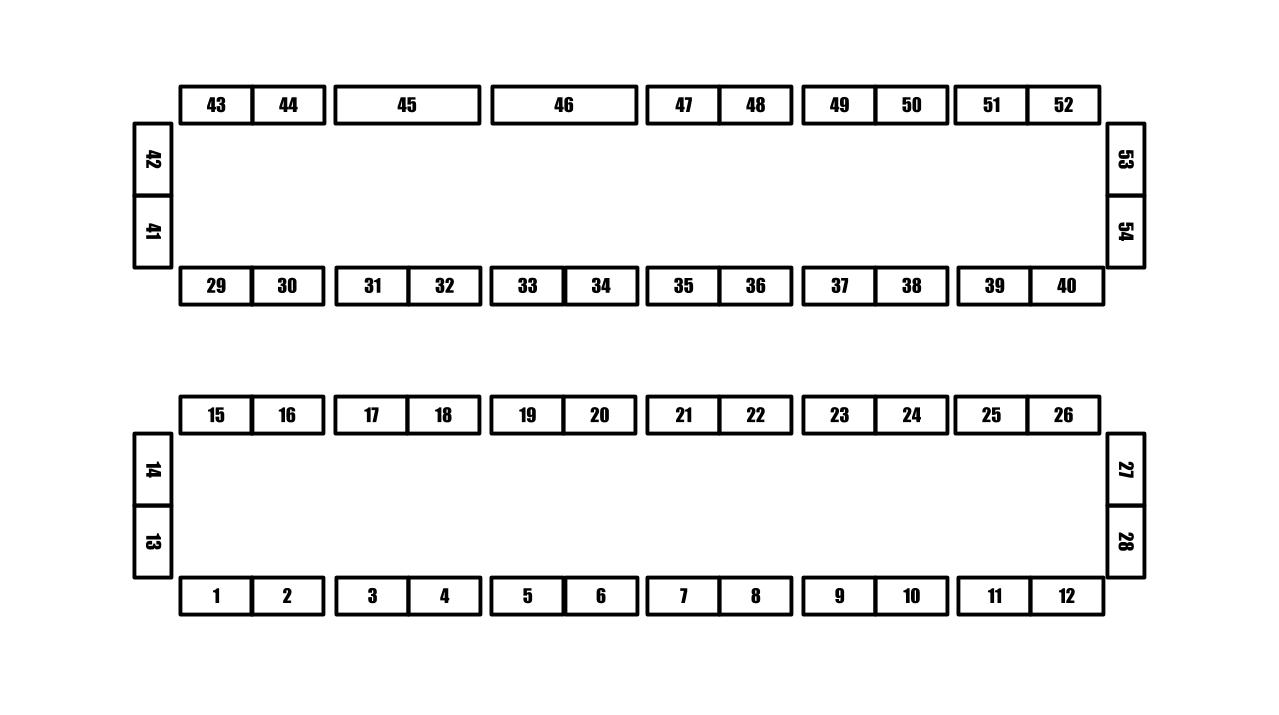
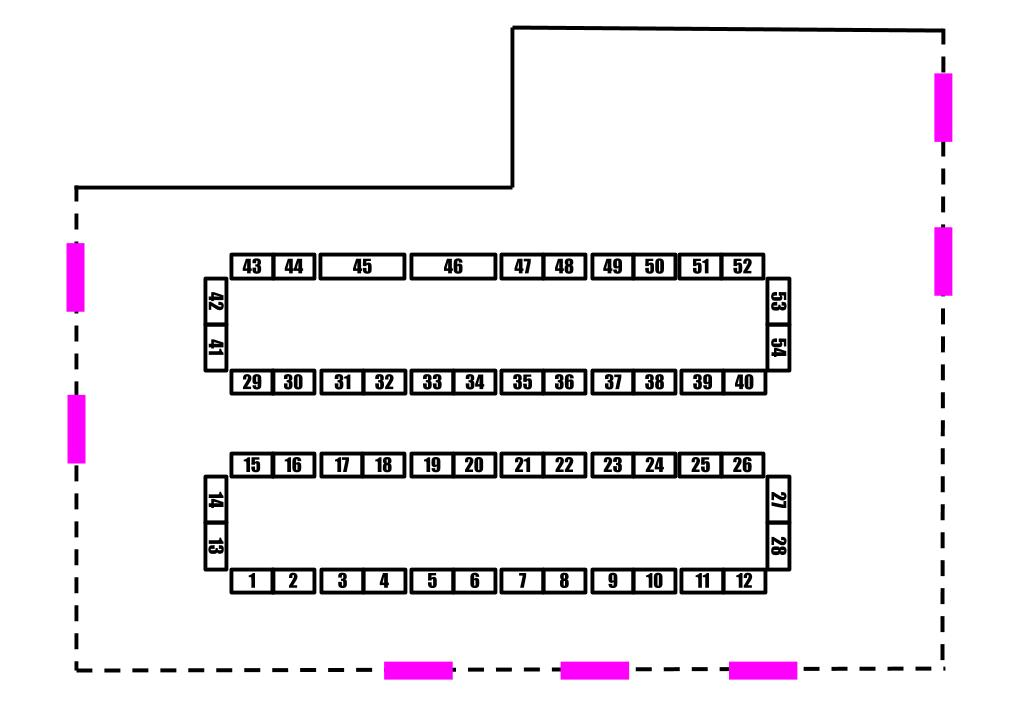
Added floor plan, updated vendor seating

Changed region(s): [[0.0608, 0.0311, 0.9431, 0.8713], [0.0608, 0.9335, 0.9127, 0.9646], [0.9127, 0.8713, 0.9431, 0.9335]]

diff --git a/index.html b/index.html
@@ -88,7 +88,7 @@
 	                <div class="col-sm-12 block-3 section-description wow fadeIn">
 	                    <h2>Registration</h2>
 	                    <div class="divider-1 wow fadeInUp"><span></span></div>
-                      <p>We are selling tickets to the event on Event Brite.  Click on the link below to purchase.</p>
+                      <p>We are selling tickets to the event on Eventbrite.  Click on the link below to purchase.</p>
 	                    <p><strong><a href="https://www.eventbrite.com/e/blythecon-los-angeles-registration-41895277904">BUY TICKETS</a></strong></p>
                             <br/><br/><br/><br/><br/><br/><br/><br/><br/>
 	                </div>
@@ -105,14 +105,13 @@
 	                	<h2>Venue</h2>
 	                    <div class="divider-1 wow fadeInUp"><span></span></div>
 	                    <p>
-                                Blythecon Los Angeles will be held on September 30, 2018 at the Reef, 
+                                Blythecon Los Angeles will be held on September 30, 2018 at <a href="http://www.the-reef.com">the Reef</a>, 
 				conveniently located by the 10 and 110 freeways, and the Grand/LATTC blue line station.  
-				See <a href=http://www.the-reef.com>www.the-reef.com</a> for 
-				more information about the venue. 
 	                    </p>
                             <p>
                                <iframe class="venue-map" src="https://www.google.com/maps/embed?pb=!1m18!1m12!1m3!1d3306.504238975276!2d-118.26880838454511!3d34.03093438061176!2m3!1f0!2f0!3f0!3m2!1i1024!2i768!4f13.1!3m3!1m2!1s0x80c2c7dad04075af%3A0xc819d7262d0442e8!2sThe+REEF+%2F+LA+Mart!5e0!3m2!1sen!2sus!4v1491524071625" ></iframe>
-                            </p>
+                            </p><br/><br/>
+                            <img src="./assets/img/floorplan.jpg">
 	                </div>
 	            </div>
 	        </div>
